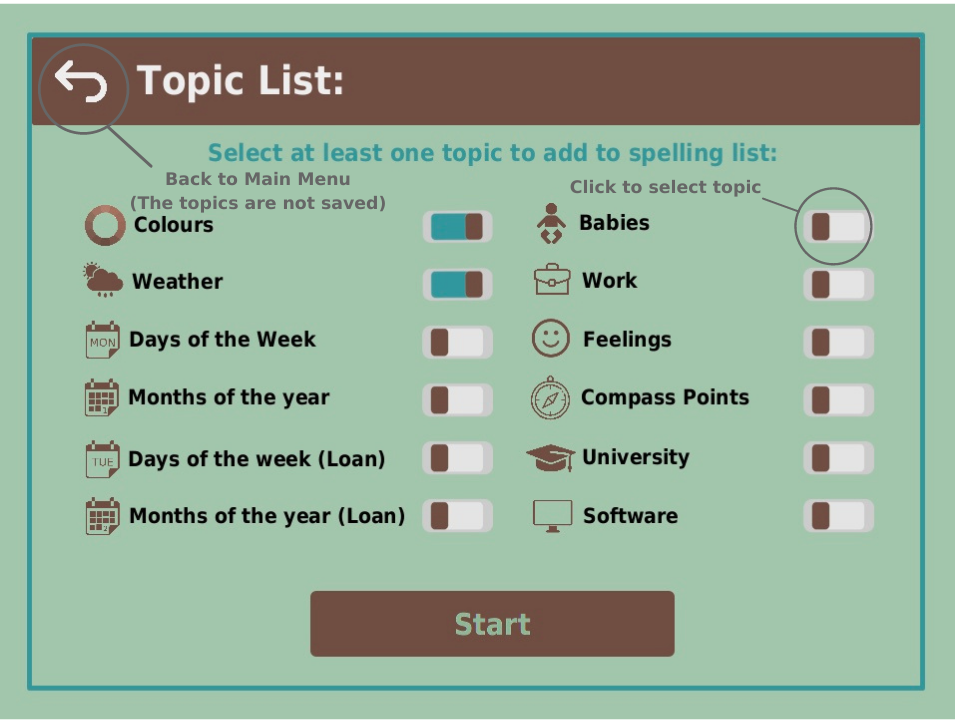
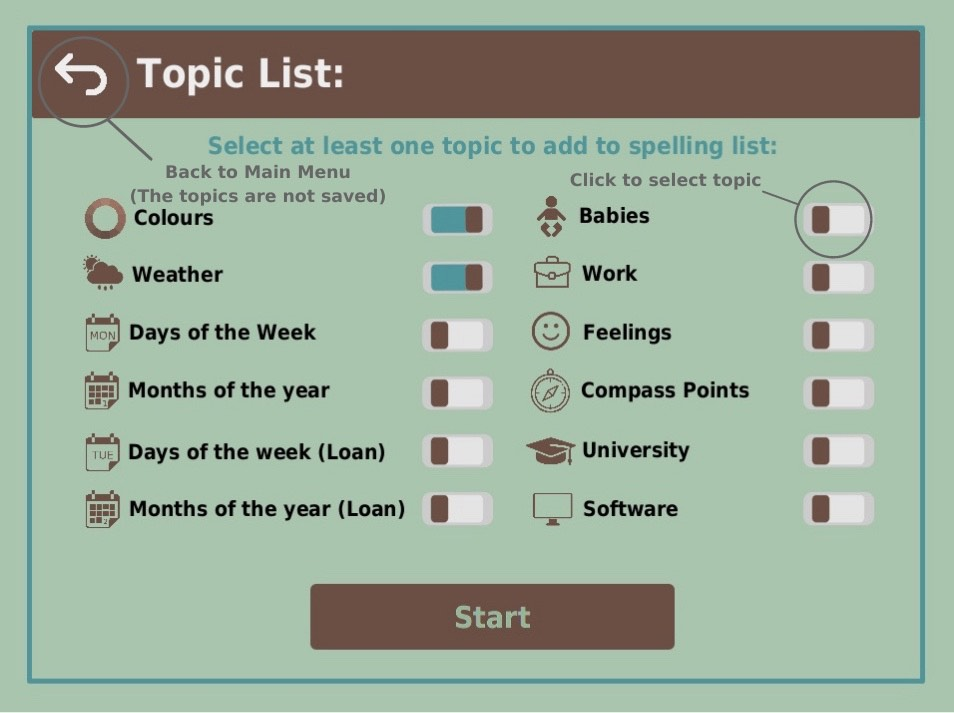
Implement Help pop up screen in the topic list of games module

diff --git a/src/controller/TopicsView.java b/src/controller/TopicsView.java
@@ -6,6 +6,7 @@ import java.util.ArrayList;
 import java.util.HashMap;
 
 import application.AlertBox;
+import application.HelpBox;
 import fileio.WordFileReader;
 import javafx.event.ActionEvent;
 import javafx.fxml.FXML;
@@ -39,6 +40,8 @@ public class TopicsView extends Controller {
 			university, software;
 	@FXML
 	private Button start, back;
+	@FXML
+	private Button helpButton;
 	@FXML
 	private Label startWarning;
 	@FXML
@@ -178,6 +181,12 @@ public class TopicsView extends Controller {
 			backToMain(event);
 		}
 		
+	}
+	
+	public void openHelpWindow(ActionEvent event) {
+		String sceneName = "TopicList";
+		HelpBox helpBox = new HelpBox(sceneName);
+		helpBox.display();
 	}
 
 }
